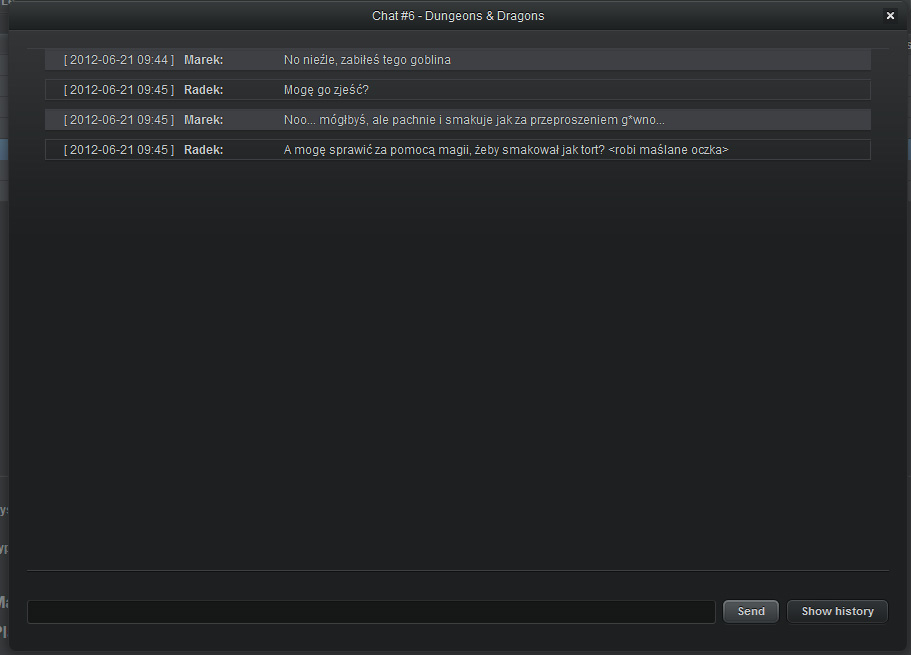
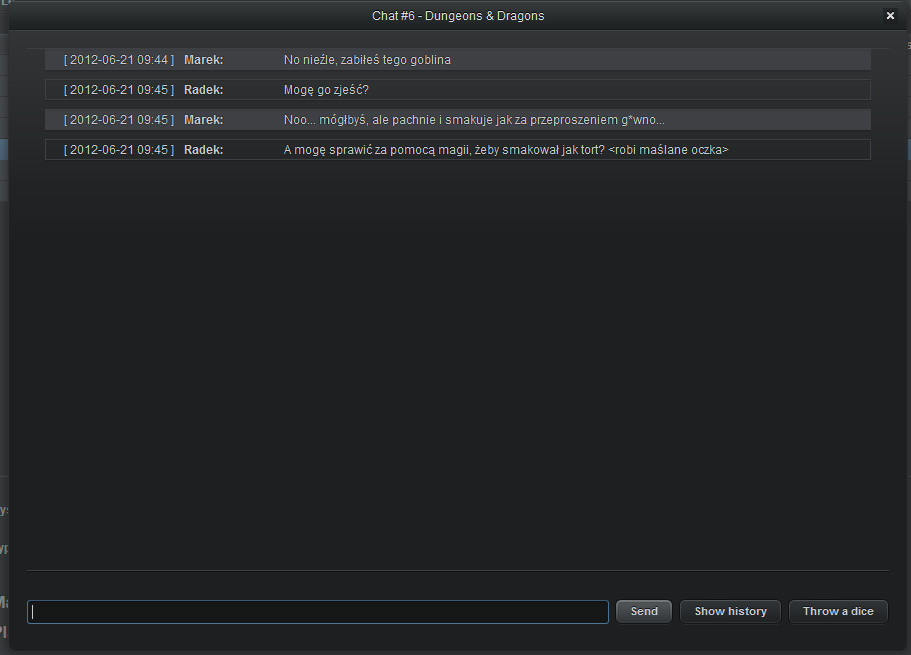
reszta interfejsów, poprawa obrazków (chat)

Changed region(s): [[0.6762, 0.916, 0.9528, 0.9771]]

diff --git a/ZTB-dokumentacja/rozdzial3.tex b/ZTB-dokumentacja/rozdzial3.tex
@@ -108,13 +108,37 @@ Zakładka \emph{My Page} zawiera profil zalogowanego użytkownika. Może tutaj p
 \subsection{FAQ}
 \label{sec:faq}
 
+\begin{figure}[htb]	
+\centering
+\includegraphics[width=0.9\textwidth]{./img/interfejsy/faq}
+\caption{FAQ}
+\label{fig:faq}
+
+\end{figure}
+Ostatnią zakładką, przedstawioną na rysunku \ref{fig:faq} są najczęściej zadawane pytania - \emph{FAQ}. Administrator systemu dodaje pozycje ze swojej strony profilowej.
+
 \subsection{Edytowanie}
 \label{sec:edit}
+Osoba z odpowiednimi uprawnieniami może edytować niektóre elementy serwisu --- systemy RPG, wiadomości, FAQ itp. Każdy z tych formularzy wygląda podobnie, edytować można wszystkie dane uzupełniane przy tworzeniu. Przykład edycji systemu RPG znajduje się na rysunku \ref{fig:edit}.
+
+\begin{figure}[htb]	
+\centering
+\includegraphics[width=0.9\textwidth]{./img/interfejsy/edit}
+\caption{FAQ}
+\label{fig:edit}
+\end{figure}
 
 \subsection{Chat}
 \label{sec:chat}
 
-%obrazek chatu zrobić
+W przypadku sesji online aktywny staje się przycisk \emph{Enter Room}. Umożliwia on wejście do pokoju z chatem z innymi uczestnikami sesji. Poza typową funkcjonalnością rozmawiania istnieje przycisk \emph{Shot history} wyświetlający wiadomości napisane przed dołączeniem danego użytkownika do kanału (przed otwarciem okna rozmowy) oraz przycisk \emph{Throw a dice} symulujący rzut kością k12, czyli losujący liczbę z zakresu 1--12. W przyszłości dodane będą rzuty parametryzowane --- wybór ilości kości (rzutów) i ich ilość ścian.
+
+\begin{figure}[htb]	
+\centering
+\includegraphics[width=0.9\textwidth]{./img/interfejsy/chat}
+\caption{Chat}
+\label{fig:faq}
+\end{figure}
 
 %%%%%%%%%%%%%%%%%%%%%%%%%%%%%%%%%%%%%%%%
 
